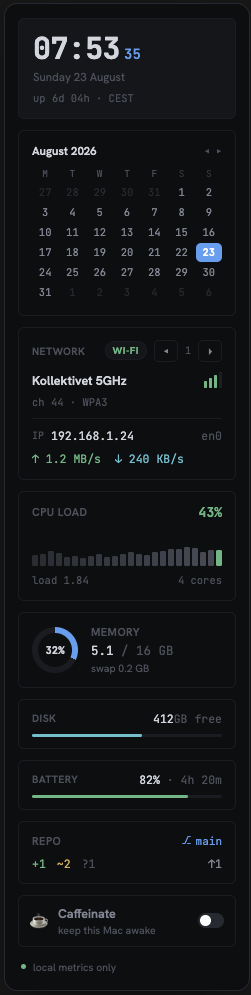
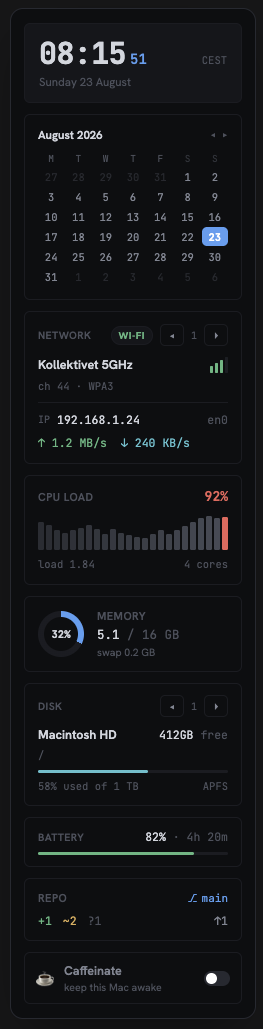
docs(m13.5): amend for updated mockups — no uptime, caffeinate reshape
Two updates from the refreshed mockups you supplied.

**Uptime removed from Clock (D7 reversed).** The refreshed
`design/sidebar-extended.png` renders the Clock as a two-line card
with no `up 6d 04h` line — matching your original preference
before the earlier mockup pulled the other way. D7 now reads
"uptime is deferred to Phase 2; not shown in Clock." The
`system_uptime_seconds()` probe is dropped from M13.5.2, the M13.5.2
Clock item is rewritten as a two-line format, and the roadmap
bullet for the Clock reshape drops the uptime line.

**Caffeinate on-state visual reshape (new D13).** The new
`design/caffeinated-selected.png` shows the caffeinate widget
when the assertion is held with:

- an accent-blue border on the whole card (strongest signal,
  legible in peripheral vision),
- title flipped from `Caffeinate` (verb) to `Caffeinated`
  (adjective, describing state),
- subtitle flipped from `keep this Mac awake` to `awake for
  N m N s` (duration contextualised rather than bare),
- toggle switch in accent blue rather than green — semantic is
  active-vs-idle, not good-vs-bad; accent blue is the app-wide
  colour for user-selected active state.

Folded into M13.5.2 (in-place reshapes) since it's the same
character of work — existing widget, no new backend, no new
probe. The M13.4 state machine, backend, and honest-log
placement are all untouched; only the successful-hold visual
changes. Failure states carry unchanged.
[…]

diff --git a/specs/19-sidebar.md b/specs/19-sidebar.md
@@ -293,17 +293,16 @@ Three new widgets (Calendar, Battery, Disk), three reshapes of shipped widgets (
 
 Every decision below is my recommendation, called out so you can push back before we sink cost — same rule as the original D-block.
 
-### D7 — Uptime lives inside the Clock widget, not as a standalone widget
+### D7 — Uptime is deferred to Phase 2; not shown in Clock
 
-The mockup shows `up 6d 04h · CEST` on the third line of the Clock card. Uptime is treated as a peer to timezone rather than as its own tile:
+An earlier draft of this spec placed uptime on a third Clock line (`up 6d 04h · CEST`) as a peer to timezone. The `design/sidebar-extended.png` refresh removed it, aligning with the original preference before the earlier mockup pulled it in the other direction. M13.5 Clock is a two-line card:
 
-- Both answer variants of the same question — "wall time on this machine" — and both belong in the same visual frame.
-- A standalone "uptime + boot time + load average" widget would compete with the CPU card for the same slot in the reader's eye without carrying meaningfully different content.
-- The Clock card's third line is already the "at-a-glance context for what's shown above" slot; timezone establishes when, uptime establishes how long.
+- **Line 1:** `HH:MM` (mono, primary), accent-coloured seconds `SS` (small, right of the minutes), timezone abbreviation `TZABBR` right-aligned in dim.
+- **Line 2:** full weekday + day + month (`Sunday 23 August`) in dim.
 
-Requires one new probe (`system_uptime_seconds() -> u64`) added to the existing `status.rs` — `sysinfo::System::uptime()` covers all three OSes.
+Uptime is deferred to Phase 2, where a system-metrics widget (or a Clock-with-uptime opt-in) can carry it. No probe is added in M13.5 for it, and no widget slot is reserved.
 
-**Rejected alternative:** a dedicated "System" widget carrying uptime + boot time + `load N.NN`. Splits the answer to one question across two widgets (CPU already carries load) and adds a fourth thing competing for glance-height. Uptime in Clock is one line of dim text; the split loses the compactness.
+**Rejected alternative (reversed):** uptime as a Clock third line. Uptime is a system metric; the Clock widget is about wall time on this machine. Bundling them worked in one mockup and read as clutter in the next. Deferring costs nothing that the M13.5 target promised.
 
 ### D8 — Calendar is a hollow month grid; no event data, no permissions
 
@@ -387,11 +386,28 @@ The mockup carried a `● local metrics only` footer chip at the bottom of the e
 
 The pledge stays true — no M13.5 widget makes any network call — but the assurance lives where it earns its space, not as ambient sidebar chrome.
 
+### D13 — Caffeinate widget on-state is a whole-card visual reshape
+
+Reference: `design/caffeinated-selected.png`.
+
+The M13.4 caffeinate widget signals its on state by swapping the subtitle line — the card border and title stay the same. Daily use flagged this as too subtle: from a glance across the sidebar it looks like the same card whether the assertion is held or not.
+
+The reshape:
+
+- **Card border becomes accent-blue** when the assertion is held. Same border weight as the resting card; only the colour changes. This is the strongest signal in the reshape, and the whole reason for it — the border is what makes on/off legible in peripheral vision.
+- **Title flips** from `Caffeinate` (verb, imperative — "do this") to `Caffeinated` (adjective, describing state — "this is what I am"). Small change, honest one.
+- **Subtitle flips** from `keep this Mac awake` to `awake for N m N s`. Duration is contextualised rather than bare — a reader who doesn't know what "1m 13s" refers to now does. The duration string continues to come from the backend's shared start stamp per M13.4 D6, not from the widget's first render.
+- **Toggle switch uses accent blue** when active, not the green called for in the M13.4 spec. Rationale: the M13.4 green was intended as "on / good", but the semantic of caffeinate isn't good-vs-bad — it's active-vs-idle. Accent blue is the app-wide colour for user-selected active state (assistant dock, focused pane, palette selection), and using it here makes the widget consistent with every other "this is on because you asked" surface. Green stays reserved for things where the semantic is genuinely "healthy" — free disk space, low CPU, in-sync git.
+
+**Failure states are unchanged.** A refused acquire still shows the off state with a short label and the tooltip carrying the full error — same as M13.4. The reshape is only about the successful-hold visual.
+
+**Rejected alternative:** an animated pulse on the coffee glyph when active. Motion for its own sake violates the daily-driver "calm" principle. Border + title + subtitle carry the state; motion adds nothing a reader would thank us for.
+
 ## Widget set at M13.5
 
 Building on D5 (M13's five widgets), the extended set is **nine**, top-to-bottom in the order pinned by `design/sidebar-extended.png`:
 
-1. **Clock** — reshaped per D7 + mockup. Big `HH:MM` (mono, primary), accent-coloured seconds `SS` (small, right of the minutes). Second line: full weekday + day + month (`Sunday 23 August`). Third line: `up Nd NNh · TZABBR`. No change to tick source.
+1. **Clock** — reshaped per D7 + mockup. Two lines. Line 1: big `HH:MM` (mono, primary), accent-coloured seconds `SS` (small, right of the minutes), timezone abbreviation right-aligned in dim (e.g. `CEST`). Line 2: full weekday + day + month (`Sunday 23 August`) in dim. No change to tick source. No uptime line — deferred to Phase 2 per D7.
 2. **Calendar** — NEW per D8. Client-side render only.
 3. **Network** — unchanged from the M13 refinement pass (multi-interface pager).
 4. **CPU** — unchanged. Extended CPU card format from the M13 refinement (heat-mapped sparkline + `load N.NN · N cores`).
@@ -399,7 +415,7 @@ Building on D5 (M13's five widgets), the extended set is **nine**, top-to-bottom
 6. **Disk** — NEW per D10.
 7. **Battery** — NEW per D9. Consumes the existing M12.4b `system_battery` probe — no new backend.
 8. **Repo** — extended: **the `?n` untracked count is added** to the working-tree summary line, in a dim colour (weaker than `+n` staged green and `~n` unstaged amber, but present). Reuses the existing `git_status_porcelain` output, which already carries untracked entries; the current widget just doesn't count them. Zero counts continue to be omitted rather than printed as `?0`.
-9. **Caffeinate** — unchanged.
+9. **Caffeinate** — on-state visual reshape per D13 (accent-blue card border when active, `Caffeinated` / `awake for N m N s` labels, accent-blue toggle). The M13.4 state machine, backend, and honest-log placement are unchanged.
 
 Widget order is fixed for M13.5 — drag-to-reorder remains Phase 2 territory per D5.
 
@@ -415,15 +431,15 @@ Scope: land this section, wire the mockup references, delete the superseded `des
 
 ### M13.5.2 — In-place reshapes
 
-Scope: everything that changes an existing widget without adding a new one, plus the one new native probe the reshapes need.
+Scope: everything that changes an existing widget without adding a new one. No new native probes — the reshapes are pure frontend or reuse what's already there.
 
-- **Clock:** format per mockup, add the third line (uptime + timezone).
+- **Clock:** two-line format per mockup + D7. Big `HH:MM` with accent seconds `SS` and timezone `TZABBR` right-aligned on line 1; weekday + date on line 2.
 - **Memory:** add the swap line.
 - **Repo:** add the `?n` untracked count.
-- **Rust:** `system_uptime_seconds()` in `status.rs`, via `sysinfo::System::uptime()`.
+- **Caffeinate:** on-state visual reshape per D13 — accent-blue card border, `Caffeinated` title, `awake for N m N s` subtitle, accent-blue toggle. The state machine and backend are untouched; this is purely how the on-state renders.
 - **Frontend:** timezone read from `Intl.DateTimeFormat().resolvedOptions().timeZone`, resolved to a short abbreviation via `Intl.DateTimeFormat(..., { timeZoneName: 'short' })`. No probe — JS reads the OS timezone directly.
 
-**Exit:** Clock card matches mockup. Memory card shows a swap line on machines with active swap, hides it cleanly on machines without. Repo card carries `?n` when there are untracked files, omits when there are none.
+**Exit:** Clock card matches mockup. Memory card shows a swap line on machines with active swap, hides it cleanly on machines without. Repo card carries `?n` when there are untracked files, omits when there are none. Caffeinate card shows the accent-blue border, adjective title, and duration subtitle when active; reverts to the resting card when toggled off; failure states are unchanged from M13.4.
 
 ### M13.5.3 — Calendar + Battery in sidebar
 
@@ -457,7 +473,7 @@ Scope: replace the M13.1 glyph rail with the D11 mini-card rail, once the extend
 ## Non-goals for M13.5 (explicit, not deferred)
 
 - **Weather widget** — same reason as M13. Phase 2 with the capability gate.
-- **Uptime as a standalone widget** — folded into Clock per D7. If a user ever asks "why is uptime hiding in a Clock", we split it out; nobody has yet.
+- **Uptime, anywhere** — deferred to Phase 2 per D7 (both as a standalone widget and as a Clock line). No probe added in M13.5. When a Phase 2 system-metrics widget lands, it earns uptime; the Clock stays about wall time.
 - **Calendar with real events** — per D8. Not "eventually", not "with a flag" — Phase 2 with a networked or entitled capability, if at all.
 - **Statusbar consolidation** — per D9. Separate follow-up conversation, not a slice of this milestone.
 - **`● local metrics only` footer** — per D12.
@@ -468,7 +484,7 @@ Scope: replace the M13.1 glyph rail with the D11 mini-card rail, once the extend
 
 Per the CLAUDE.md testing policy, each slice writes tests alongside.
 
-- **M13.5.2** — `ClockWidget.test.tsx` grows cases for the uptime line format (`up 6d 04h`, singular/plural boundary, `up NNm` when uptime is minutes only), the timezone abbreviation, and the three-line mockup layout. `MemoryWidget.test.tsx` grows a swap-line-present case, a swap-line-hidden-when-`total_swap == 0` case, and a swap-line-reads-0.0-when-idle-but-swap-configured case. `GitBranchWidget.test.tsx` grows an untracked-count-visible case and an untracked-zero-omitted case. Rust: `status.rs` gets a smoke test that `system_uptime_seconds()` returns a plausible non-zero number on the CI host.
+- **M13.5.2** — `ClockWidget.test.tsx` grows cases for the two-line mockup layout, the accent-coloured seconds slot, and the right-aligned timezone abbreviation. `MemoryWidget.test.tsx` grows a swap-line-present case, a swap-line-hidden-when-`total_swap == 0` case, and a swap-line-reads-0.0-when-idle-but-swap-configured case. `GitBranchWidget.test.tsx` grows an untracked-count-visible case and an untracked-zero-omitted case. `CaffeinateWidget.test.tsx` grows: on-state renders the accent-blue border (assert a class or inline-style delta between off and on), title reads `Caffeinated` when active vs `Caffeinate` when resting, subtitle reads `awake for N m N s` when active vs the resting explanation when off, toggle style differs off vs on. The M13.4 state-machine cases continue to hold — no rework of what already tests the failed-acquire and reconciliation paths.
 - **M13.5.3** — `CalendarWidget.test.tsx` covers month rendering (current month, prev-month days greyed, today accented), prev/next chevron navigation with today-preservation, and the "widget makes zero backend calls" guarantee. `BatteryWidget.test.tsx` covers charging vs discharging colour, the estimate rendering, and the "no battery → widget hidden" case.
 - **M13.5.4** — `DiskWidget.test.tsx` covers pager navigation, heat-mapped bar at three utilisations (below 70%, 70–90%, ≥90%), the `used-of-total · filesystem` bottom line, and — the invariant Network also tests — selection sticks to mount point when a volume earlier in the pager unmounts. Rust: `disk_volumes()` gets a smoke test that it returns a non-panicking non-empty list on the CI host, plus a unit test on the filter logic against synthetic mount lists that exercises each of the "should be excluded" cases (tmpfs, sysfs, snapshot, autofs, etc.).
 - **M13.5.5** — `Sidebar.test.tsx` grows cases for the new rail rendering (each widget renders its Rail variant when `visible=false`), and the click-to-expand contract (clicking any rail card fires the sidebar-expand handler, not the widget's own action).

diff --git a/specs/12-roadmap-milestones.md b/specs/12-roadmap-milestones.md
@@ -337,19 +337,20 @@ Detail in `19-sidebar.md`. Sliced M13.1 – M13.4 (sidebar chrome + toggle, cloc
 
 ## M13.5 Sidebar Phase 1 extensions
 
-**Goal:** grow the M13 sidebar with three new widgets, three reshapes of shipped ones, and a full remodel of the collapsed rail — driven by what daily use of the M13 sidebar surfaced as missing. Same Phase 1 charter: no runtime, no schema, no sandbox. **Lead:** frontend, with core for the new native probes (`system_uptime_seconds`, `disk_volumes`).
+**Goal:** grow the M13 sidebar with three new widgets, four reshapes of shipped ones, and a full remodel of the collapsed rail — driven by what daily use of the M13 sidebar surfaced as missing. Same Phase 1 charter: no runtime, no schema, no sandbox. **Lead:** frontend, with core for the new native probe (`disk_volumes`).
 
-- **Clock reshape:** third line adds uptime + timezone (`up 6d 04h · CEST`); big `HH:MM` gains a small accent-coloured seconds field. Format matches `design/sidebar-extended.png`.
+- **Clock reshape:** two-line format matching `design/sidebar-extended.png`. Line 1 is `HH:MM` (big) with accent-coloured seconds `SS` and timezone abbreviation right-aligned. Line 2 is the weekday + date. Uptime is not carried — deferred to Phase 2 per D7.
 - **Memory reshape:** adds a `swap N.N GB` line, hidden entirely when `total_swap == 0`. Uses `sysinfo::System::used_swap()`.
 - **Repo reshape:** adds the `?n` untracked count to the working-tree summary line, in a dim colour. Reuses existing `git_status_porcelain` output.
+- **Caffeinate reshape:** on-state gains an accent-blue card border; title flips from `Caffeinate` (verb) to `Caffeinated` (adjective); subtitle flips from `keep this Mac awake` to `awake for N m N s`; toggle uses accent blue rather than green. Backend, state machine, and honest-log placement unchanged. Reference: `design/caffeinated-selected.png`.
 - **Calendar widget:** hollow month grid with today highlighted, prev/next chevrons. No event data, no permissions, no OS calendar integration — that all belongs in Phase 2 as a networked / entitled capability, if a real ask arises.
 - **Battery widget:** sidebar card with `% · N h N m` and a full-width horizontal bar coloured by state (green discharging, amber low, blue charging). Reuses the existing M12.4b `system_battery` probe. Statusbar chip continues alongside; the "what does the statusbar carry now?" consolidation is a separate follow-up conversation.
 - **Disk widget:** pager over mounted volumes, mirroring the Network pager. Per-OS enumeration — macOS `getmntinfo`, Linux `/proc/mounts` + `statvfs`, Windows `GetLogicalDriveStrings` + `GetDiskFreeSpaceEx`. Filtering excludes snapshots, tmpfs, sysfs, virtual mounts. Heat-mapped usage bar (teal / amber / red). Reference: `design/disk-widget-1.png` … `-4.png`.
 - **Collapsed rail remodel:** replaces the M13.1 glyph rail with compact data cards (`HH` above `MM`, month + day-in-circle, mini sparkline, donut, throughput arrows, battery pill, etc.). Rail width may grow modestly, capped at 56px. The click-to-expand contract is preserved — every rail card is display-only.
 
-**Exit:** every window's sidebar renders the extended nine-widget set matching `design/sidebar-extended.png`; the collapsed rail matches `design/sidebar-collapsed.png` at typical DPI; Disk correctly pages through mounted volumes with the D10 filter applied on all three platforms; Battery shows on machines with a battery and hides on machines without; Clock renders three lines including uptime and timezone; the click-to-expand rule holds for every rail card.
+**Exit:** every window's sidebar renders the extended nine-widget set matching `design/sidebar-extended.png`; the collapsed rail matches `design/sidebar-collapsed.png` at typical DPI; Disk correctly pages through mounted volumes with the D10 filter applied on all three platforms; Battery shows on machines with a battery and hides on machines without; Clock renders in its two-line form; Caffeinate's on-state carries the accent border, adjective title, and contextual duration per `design/caffeinated-selected.png`; the click-to-expand rule holds for every rail card.
 
-**Explicitly out of scope:** Weather widget (Phase 2 with the network capability gate), uptime as a standalone widget (folded into Clock), Calendar with real events (Phase 2), statusbar consolidation (separate follow-up), `● local metrics only` footer (per D12 of the sidebar spec), drag-to-reorder (Phase 2), per-widget preferences panels.
+**Explicitly out of scope:** Weather widget (Phase 2 with the network capability gate), uptime anywhere in the sidebar (deferred to Phase 2 per D7 — no standalone widget, no Clock line), Calendar with real events (Phase 2), statusbar consolidation (separate follow-up), `● local metrics only` footer (per D12), drag-to-reorder (Phase 2), per-widget preferences panels.
 
 Detail in `19-sidebar.md` § "Phase 1 extensions (M13.5)". Sliced M13.5.1 – M13.5.5 (spec, in-place reshapes, Calendar + Battery, Disk with volume pager, collapsed rail remodel).
 
